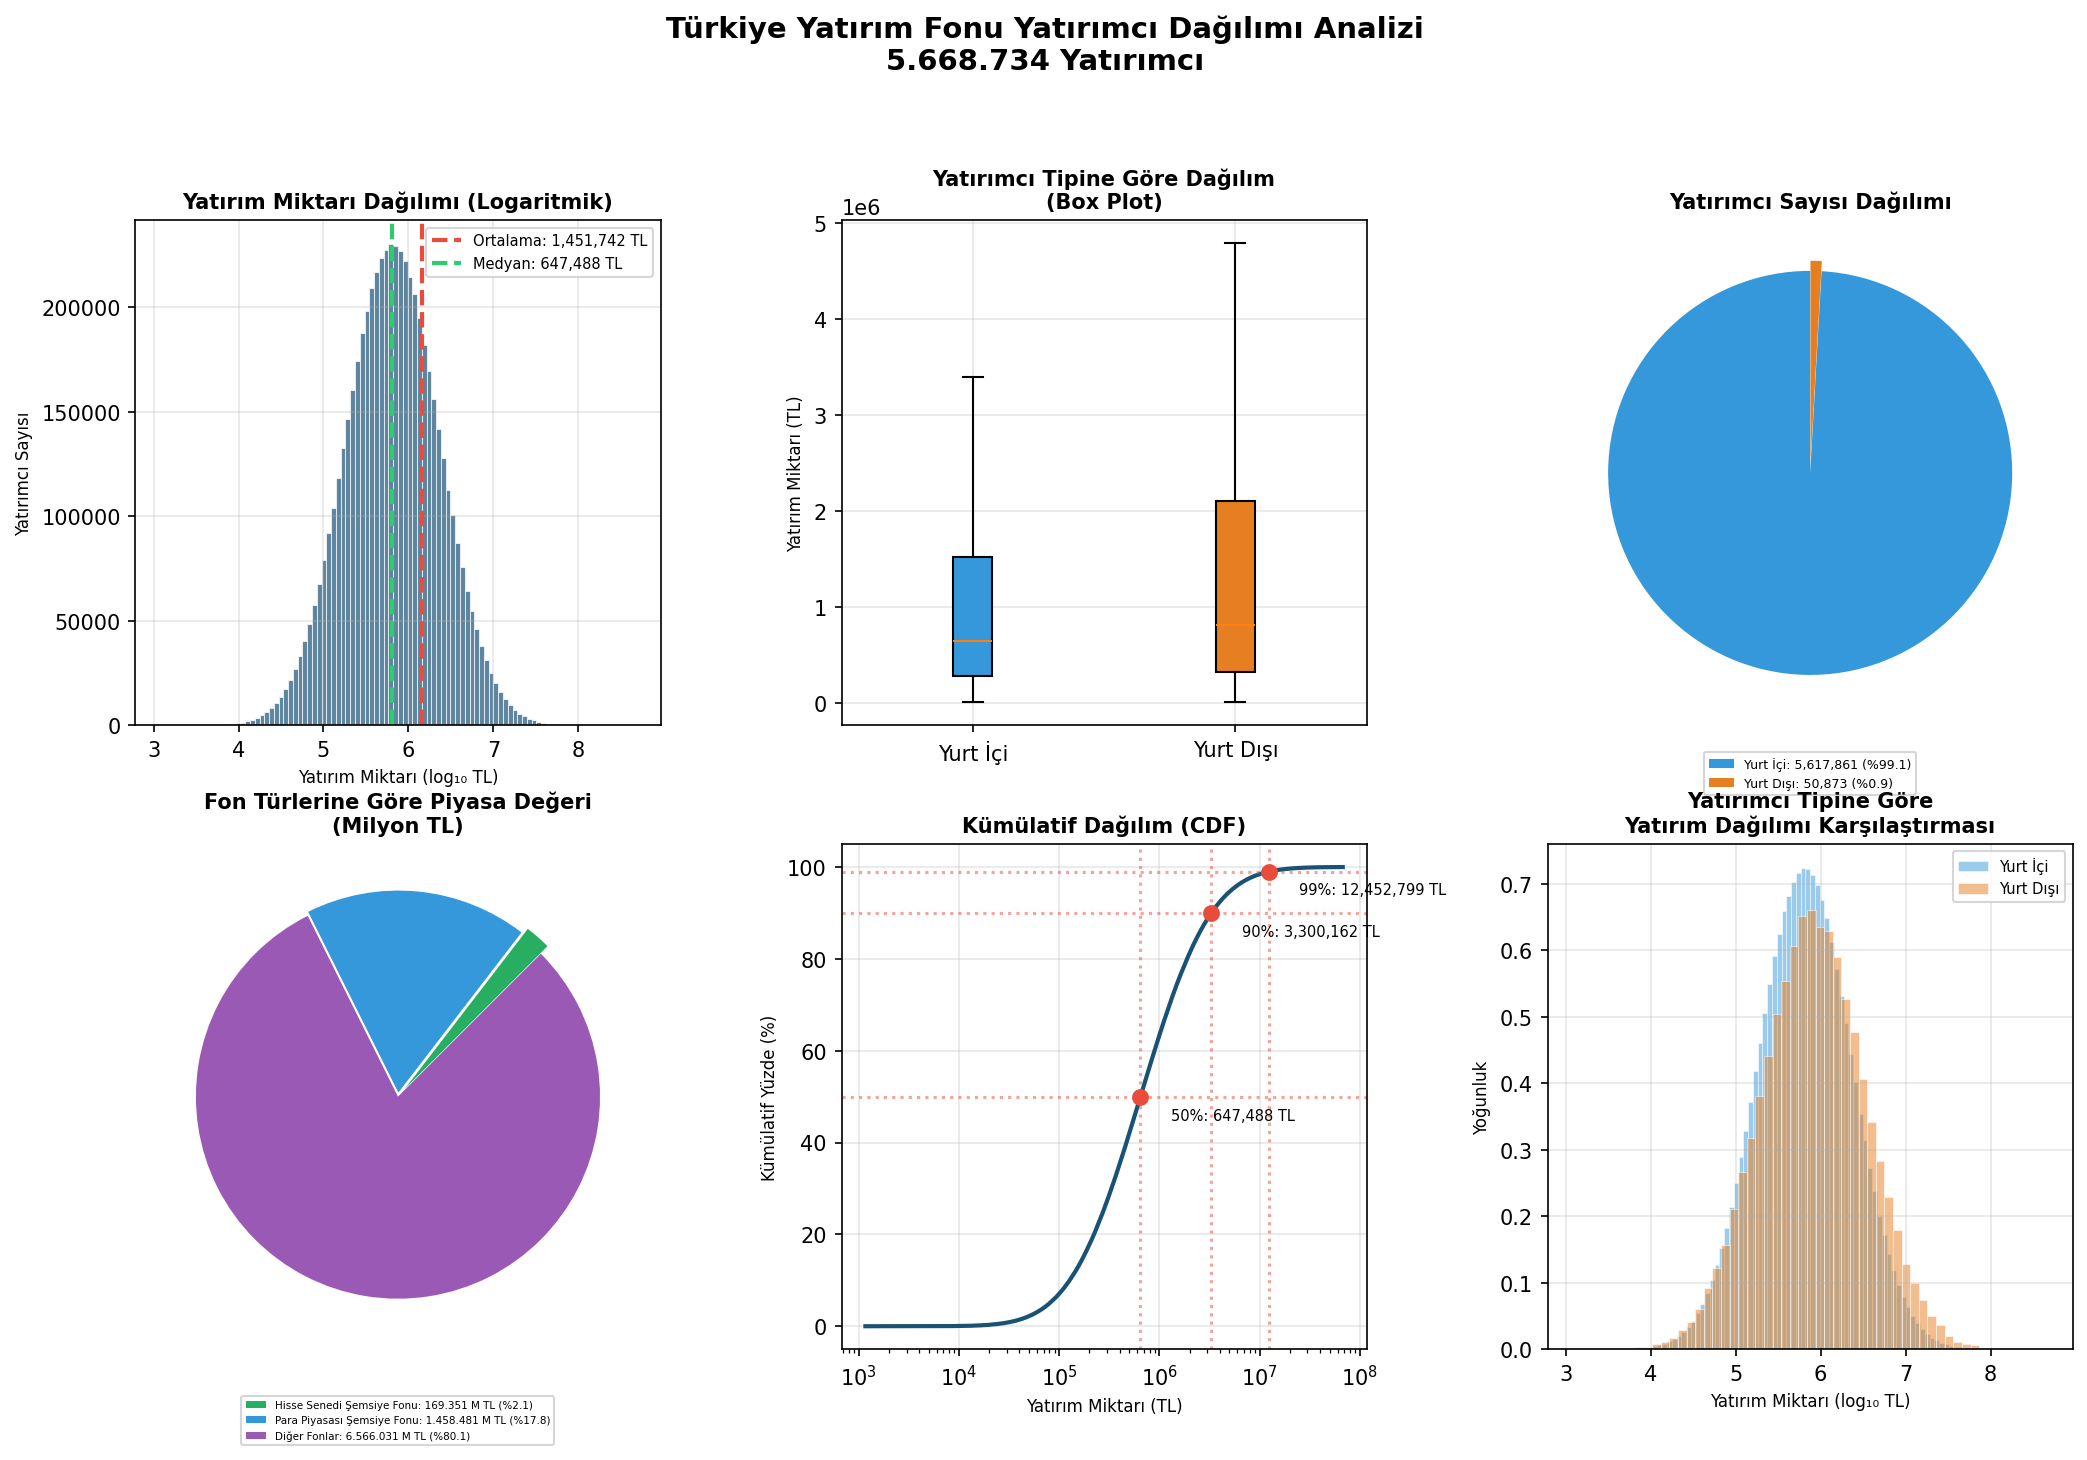
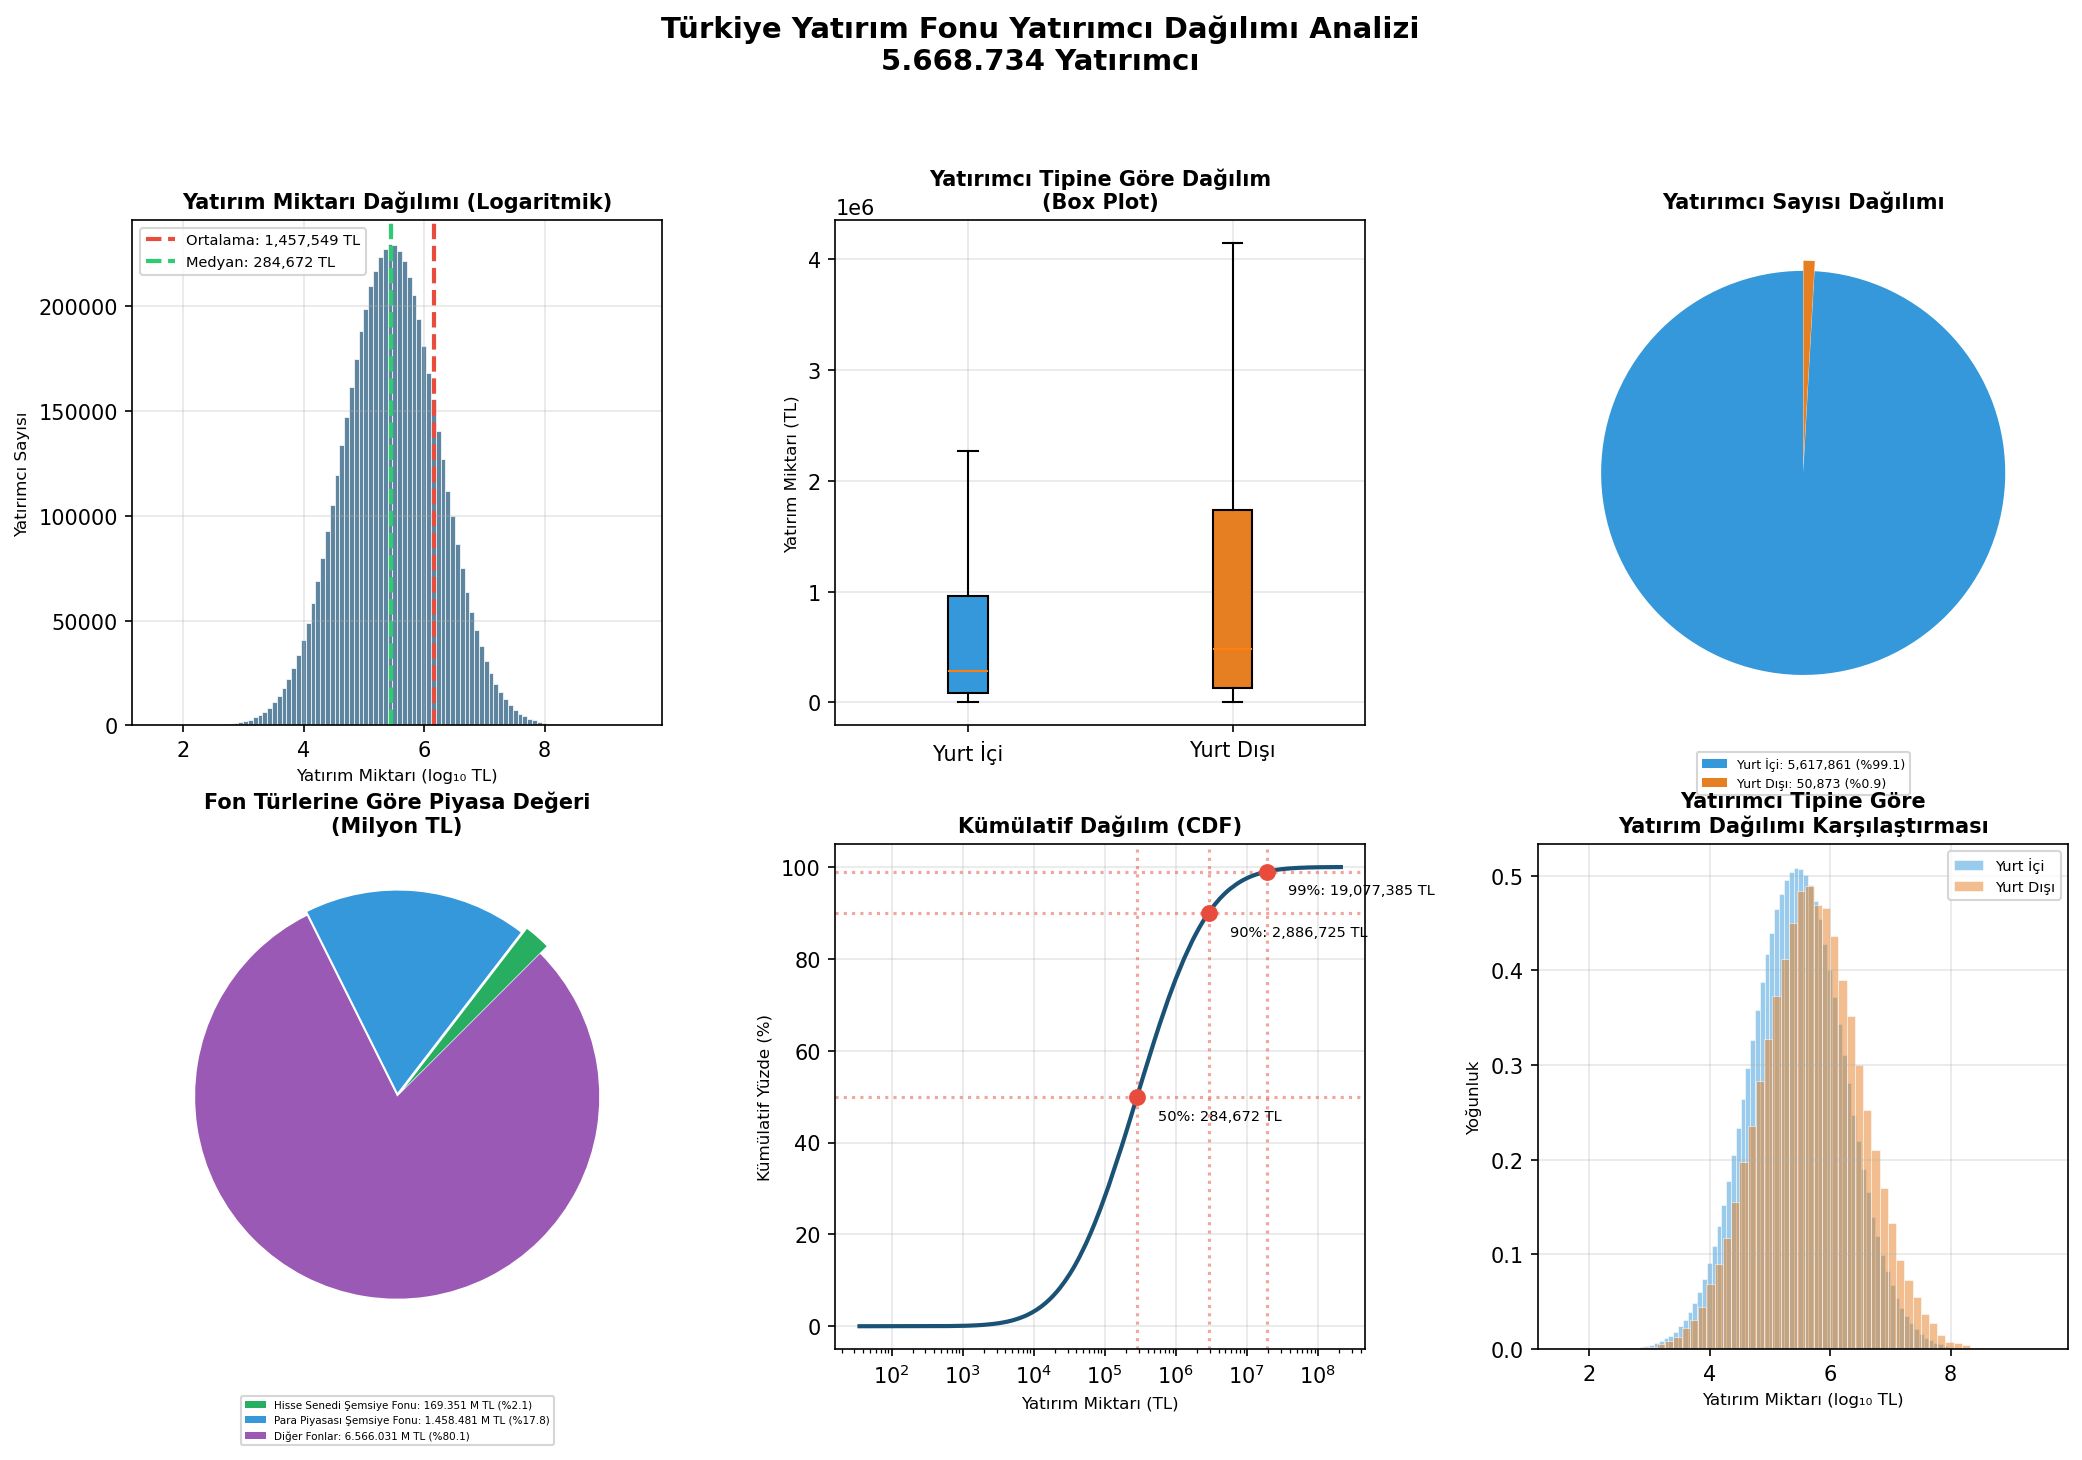
Variance,mean,median values and graphs updated

diff --git a/investment_fund_simulation.py b/investment_fund_simulation.py
@@ -101,12 +101,13 @@ def generate_investor_data(n_investors, mean, variance, investor_type, seed=42):
 
 print("\n📊 Veri üretimi başlıyor...")
 
-# Yurt içi yatırımcılar için varyans (daha geniş dağılım)
-variance_yurt_ici = (ORTALAMA_YATIRIM * 2) ** 2
+# Yurt içi yatırımcılar için varyans (YÜKSEK VARYANSLAG gerçekçi eşitsizlik)
+# Gerçek dünyada servet dağılımı çok daha eşitsiz - Pareto prensibi (%20 nüfus, %80 servet)
+variance_yurt_ici = (ORTALAMA_YATIRIM * 5) ** 2  # x2 -> x5 (çok daha geniş dağılım)
 
-# Yurt dışı yatırımcılar için varyans (daha yüksek ortalama ve varyans)
-mean_yurt_disi = ORTALAMA_YATIRIM * 1.5  # Yurt dışı yatırımcılar genellikle daha yüksek miktarda yatırım yapar
-variance_yurt_disi = (mean_yurt_disi * 2.5) ** 2
+# Yurt dışı yatırımcılar için varyans (daha yüksek ortalama ve EKSTREM varyans)
+mean_yurt_disi = ORTALAMA_YATIRIM * 2.0  # x1.5 -> x2 (yurt dışı yatırımcılar daha zengin)
+variance_yurt_disi = (mean_yurt_disi * 6) ** 2  # x2.5 -> x6 (çok daha büyük uçurum)
 
 # Yurt içi yatırımcı verisi
 print(f"  → Yurt içi yatırımcı verisi üretiliyor ({YURT_ICI_YATIRIMCI:,} kişi)...")

diff --git a/README.md b/README.md
@@ -19,9 +19,12 @@ Bu proje, Türkiye'deki yatırım fonu yatırımcılarının portföy dağılım
 | **Toplam Yatırımcı** | 5.668.734 |
 | **Yurt İçi Yatırımcı** | 5.617.861 (%99.1) |
 | **Yurt Dışı Yatırımcı** | 50.873 (%0.9) |
-| **Toplam Fon Değeri** | 8.19 Trilyon TL |
-| **Ortalama Yatırım** | 1.451.742 TL |
-| **Medyan Yatırım** | 647.488 TL |
+| **Toplam Fon Değeri** | 8.26 Trilyon TL |
+| **Ortalama Yatırım** | 1.457.549 TL |
+| **Medyan Yatırım** | 284.672 TL |
+| **Standart Sapma** | 7.323.188 TL |
+| **Minimum** | 35 TL |
+| **Maximum** | 3.5 Milyar TL |
 
 ### Fon Türleri Dağılımı
 
@@ -90,12 +93,13 @@ fund_data_simulation/
 
 | Yüzdelik | Yatırım Miktarı |
 |----------|-----------------|
-| %10 | 127.146 TL |
-| %25 | 274.837 TL |
-| %50 (Medyan) | 647.488 TL |
-| %75 | 1.525.204 TL |
-| %90 | 3.300.162 TL |
-| %99 | 12.452.799 TL |
+| %10 | 28.106 TL |
+| %25 | 84.130 TL |
+| %50 (Medyan) | 284.672 TL |
+| %75 | 963.053 TL |
+| %90 | 2.886.725 TL |
+| %95 | 5.571.927 TL |
+| %99 | 19.077.385 TL |
 
 ## Metodoloji
 
@@ -114,6 +118,8 @@ Bu dağılım şu nedenlerle tercih edilmiştir:
 - Yalnızca pozitif değerler üretir
 - Sağa çarpık dağılım (gerçek servet dağılımını yansıtır)
 - Az sayıda çok zengin, çok sayıda orta/düşük gelirli yatırımcı
+- **Yüksek varyans**: Ortalama/Medyan oranı 5.1x (gerçekçi eşitsizlik)
+- **Pareto prensibi**: %20 yatırımcı, toplam fonun büyük çoğunluğunu tutar
 
 ## Lisans
 
